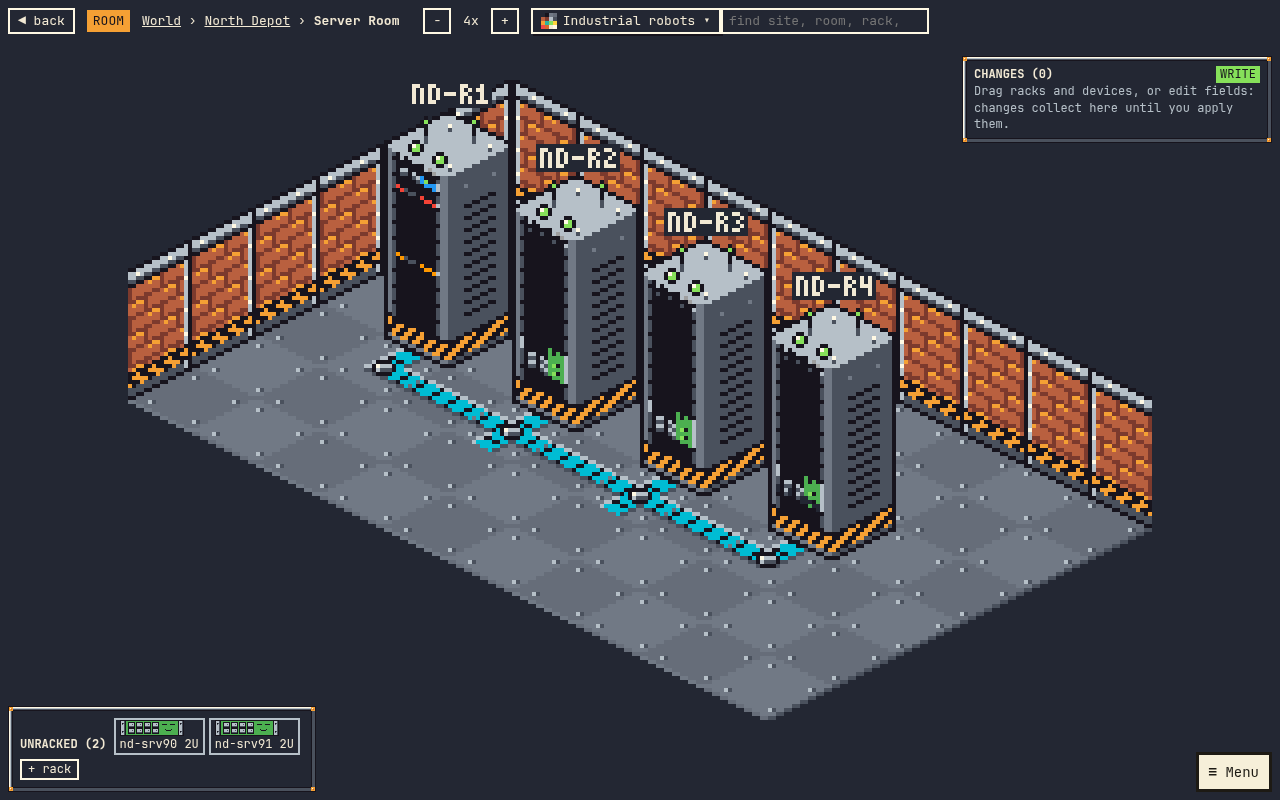
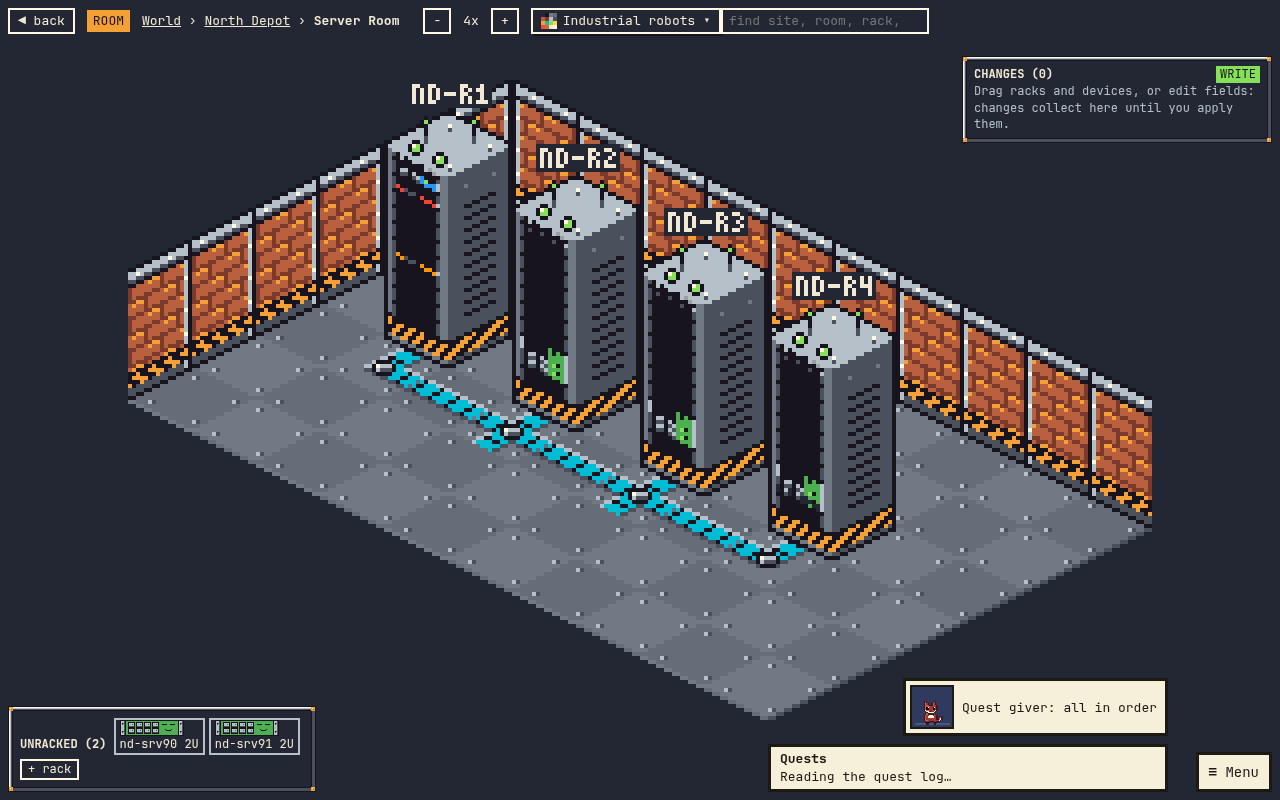
Quests: a fresh read on request, undone fixes counted not reopened, live quest e2e with its own NetBox user, docs

Changed region(s): [[0.5938, 0.8438, 0.9375, 1.0]]

diff --git a/web/e2e-live/quests-live.spec.ts b/web/e2e-live/quests-live.spec.ts
@@ -3,16 +3,17 @@ import { boot, game, typed } from '../e2e/game-helpers';
 
 // A quest on the live stack, written for real: against a WRITER's own dev NetBox stack (fresh seed), with the proxy on
 // that stack's rw token and WRITE_ENABLED=1, vite in front of it (RACKWALKER_LIVE_URL), and NB_URL + NB_ADMIN_TOKEN
-// for the NetBox-side checks. The player (the admin user) asks North Depot's quest giver, answers what the far end of
-// nd-core1's management port is, previews the cable, applies it, and NetBox confirms: XP, the cable tracer, the
-// changelog naming the player. The cable is removed afterwards, so the stack is as seeded again.
+// for the NetBox-side checks and to make the player. The player is a NetBox user made for this run, who may add
+// cables and nothing else: they ask North Depot's quest giver, answer what the far end of nd-core1's management port
+// is, preview the cable, apply it, and NetBox confirms: XP, the cable tracer, the changelog naming the player. The
+// cable and the user are removed afterwards, so the stack is as seeded again and the test can run again.
 // Screenshots: docs/screenshots/quests/live-*.png and reward.png.
 const SHOTS = '../docs/screenshots/quests';
 const NB = process.env.NB_URL;
 const TOKEN = process.env.NB_ADMIN_TOKEN;
 
 async function nb<T>(path: string, init: RequestInit = {}): Promise<T> {
-  const r = await fetch(`${NB}${path}`, { ...init, headers: { Authorization: `Bearer ${TOKEN}`, Accept: 'application/json' } });
+  const r = await fetch(`${NB}${path}`, { ...init, headers: { Authorization: `Bearer ${TOKEN}`, Accept: 'application/json', 'Content-Type': 'application/json' } });
   expect(r.status < 300, `${path}: ${r.status}`).toBe(true);
   return (r.status === 204 ? null : await r.json()) as T;
 }
@@ -42,22 +43,36 @@ test('live: a quest line from the giver to a cable NetBox confirms, with XP, a t
   const core = (await nb<{ results: Port[] }>('/api/dcim/interfaces/?device=nd-core1&name=mgmt0')).results[0]!;
   expect(core.cable, 'fresh seed: nd-core1 mgmt0 has no cable (make netbox-reset)').toBeNull();
   let cableId: number | null = null;
+  // The player: a NetBox user of their own, whose only write permission is to add cables.
+  const name = `quest-walker-${Date.now() % 100000}`;
+  const user = await nb<{ id: number }>('/api/users/users/', { method: 'POST', body: JSON.stringify({ username: name, password: `Rw-${crypto.randomUUID()}`, is_active: true }) });
+  const perm = await nb<{ id: number }>('/api/users/permissions/', { method: 'POST', body: JSON.stringify({ name: `${name} cables`, enabled: true, users: [user.id], object_types: ['dcim.cable'], actions: ['add'] }) });
+  const made = await nb<{ key: string; token: string }>('/api/users/tokens/', { method: 'POST', body: JSON.stringify({ user: user.id, version: 2, write_enabled: false, description: 'quest e2e' }) });
+  const playerToken = made.token.startsWith('nbt_') ? made.token : `nbt_${made.key}.${made.token}`;
   try {
     await boot(page);
-    await page.fill('#signin-token', TOKEN!);
+    await page.fill('#signin-token', playerToken);
     await page.click('#signin-submit');
     await page.evaluate(() => window.__game!.ready);
     if ((await game(page)).dialogue) await page.keyboard.press('Escape');
-    await page.evaluate(() => ((window.__game!.shell.transitionMs = 0), window.__game!.shell.quests!.refresh()));
+    // NetBox read now (a run just before this one may have removed its cable in NetBox itself)
+    await page.evaluate(() => ((window.__game!.shell.transitionMs = 0), window.__game!.shell.quests!.refresh(true)));
     const before = await page.evaluate(() => window.__game!.shell.quests!.rewards());
     expect(await page.evaluate(() => window.__game!.shell.quests!.boards.netbox!.can_write)).toBe(true);
 
-    // The giver of North Depot: tap them, hear why it matters, start the line.
-    const at = await page.evaluate(() => {
+    // The giver of North Depot: stand beside them (wherever the last visit left the player), press the interact key,
+    // hear why it matters, start the line.
+    await page.evaluate(() => {
       const s = window.__game!.shell;
-      return s.overworld!.clientOf(s.map!.giverOf(1)!);
+      if (s.scene === 'iso') return s.leave();
     });
-    await page.mouse.click(at.x, at.y);
+    await expect.poll(async () => (await game(page)).scene).toBe('overworld');
+    await page.evaluate(() => {
+      const s = window.__game!.shell;
+      const g = s.map!.giverOf(1)!;
+      s.overworld!.place({ x: g.x - 1, y: g.y }, 'E');
+    });
+    await page.keyboard.press('KeyE');
     await expect.poll(async () => (await game(page)).dialogue?.script, { timeout: 30_000 }).toBe('quest-offer');
     await page.screenshot({ path: `${SHOTS}/live-giver.png` });
     await choose(page, "Let's find out");
@@ -85,7 +100,8 @@ test('live: a quest line from the giver to a cable NetBox confirms, with XP, a t
     expect(v).toMatchObject({ mode: 'real', verified: true, complete: true });
     expect(v.xp_awarded).toBeGreaterThan(0);
     await expect(page.locator('#quest-xp')).toHaveText(`+${v.xp_awarded} XP`);
-    if (!before!.tools.includes('cable_tracer')) await expect(page.locator('#quest-reward .tool')).toContainText('New tool: Cable tracer.');
+    expect(v.xp_awarded).toBe(120); // a connectivity line, confirmed whole, for the first time
+    await expect(page.locator('#quest-reward .tool')).toContainText('New tool: Cable tracer.');
     expect(await page.evaluate(() => window.__game!.shell.lastJingle)).toBe('confirm');
     await page.screenshot({ path: `${SHOTS}/reward.png` });
     await page.click('#quest-reward-ok');
@@ -99,7 +115,8 @@ test('live: a quest line from the giver to a cable NetBox confirms, with XP, a t
     expect([cable.type, cable.b_terminations[0]!.object.device.name, cable.b_terminations[0]!.object.name]).toEqual(['cat6', 'nd-acc-nd-r2', 'Gi1/0/7']);
     const me = await (await page.request.get('/api/game/session')).json();
     const log = await nb<{ results: { message: string }[] }>(`/api/core/object-changes/?changed_object_type=dcim.cable&changed_object_id=${cableId}`);
-    expect(log.results[0]!.message).toBe(`rackwalker (${me.player.username}): quest: The other end of nd-core1 mgmt0`);
+    expect(me.player.username).toBe(name);
+    expect(log.results[0]!.message).toBe(`rackwalker (${name}): quest: The other end of nd-core1 mgmt0`);
 
     // The log: one line confirmed by NetBox, the tool on show.
     await page.click('#quest-next');
@@ -110,6 +127,8 @@ test('live: a quest line from the giver to a cable NetBox confirms, with XP, a t
     // put the stack back as seeded
     const now = (await nb<{ results: Port[] }>('/api/dcim/interfaces/?device=nd-core1&name=mgmt0')).results[0]!;
     if (now.cable) await nb(`/api/dcim/cables/${now.cable.id}/`, { method: 'DELETE' });
+    await nb(`/api/users/permissions/${perm.id}/`, { method: 'DELETE' });
+    await nb(`/api/users/users/${user.id}/`, { method: 'DELETE' });
   }
   expect(cableId).not.toBeNull();
 });

diff --git a/web/src/game/quests.ts b/web/src/game/quests.ts
@@ -182,10 +182,13 @@ export class Quests {
     return (this.board(siteId)?.quests ?? []).filter((q) => q.site_id === siteId && q.status !== 'done' && q.status !== 'dismissed');
   }
 
-  /** Reads both logs again (the estate's and the practice island's). Failures are said, never swallowed. */
-  async refresh(): Promise<void> {
+  /**
+   * Reads both logs again (the estate's and the practice island's). `fresh` has the proxy read NetBox itself again
+   * (the log's "Read NetBox again": for something changed in NetBox within the last minute). Failures are said.
+   */
+  async refresh(fresh = false): Promise<void> {
     try {
-      const [netbox, practice] = await Promise.all([this.api.questBoard('netbox'), this.api.questBoard('practice')]);
+      const [netbox, practice] = await Promise.all([this.api.questBoard('netbox', null, fresh), this.api.questBoard('practice')]);
       this.boards.netbox = netbox;
       this.boards.practice = practice;
       this.lastError = null;
@@ -551,7 +554,7 @@ export class Quests {
       xp.id = 'quest-xp';
       xp.append(spriteCanvas('icon_xp', 3), `+${v.xp_awarded} XP`);
       box.append(xp);
-    } else if (!real) box.append(el('p', 'Practice pays no XP; the real thing does, once NetBox confirms it.', 'hint'));
+    }
     for (const t of v.unlocked) {
       const row = el('p');
       row.className = 'tool';
@@ -681,7 +684,7 @@ export class Quests {
     }
     p.append(st);
     const foot = el('div', undefined, 'row');
-    foot.append(btn('◀ Close', 'quest-log-close', close), btn('Read NetBox again', 'quest-log-refresh', () => void this.refresh().then(() => this.openLog(siteId))));
+    foot.append(btn('◀ Close', 'quest-log-close', close), btn('Read NetBox again', 'quest-log-refresh', () => void this.refresh(true)));
     if (this.boards.practice?.quests.some((q) => q.status === 'done') || (this.boards.practice?.rewards.practised ?? 0) > 0)
       foot.append(btn('Start the practice island afresh', 'quest-practice-reset', () => void this.api.practiceReset().then(() => this.refresh()).then(() => this.openLog(siteId))));
     p.append(foot);

diff --git a/web/src/game/api.ts b/web/src/game/api.ts
@@ -15,7 +15,7 @@ export interface GameApi {
   settings(s: GameSettings): Promise<GameSettings>;
   flags(patch: FlagsPatch['flags']): Promise<Flags>;
   /** Quests (contract 2.3.0): the log for a site or the whole estate, on the player's NetBox or the practice island. */
-  questBoard(scope: QuestScope, siteId?: number | null): Promise<QuestBoard>;
+  questBoard(scope: QuestScope, siteId?: number | null, fresh?: boolean): Promise<QuestBoard>;
   questAnswer(a: QuestAnswer): Promise<Quest>;
   questPreview(scope: QuestScope, questId: string): Promise<ChangeResult>;
   questApply(scope: QuestScope, questId: string): Promise<QuestVerdict>;
@@ -81,8 +81,8 @@ export class HttpGameApi implements GameApi {
   flags(patch: FlagsPatch['flags']): Promise<Flags> {
     return this.call('PATCH', '/api/game/flags', { flags: patch } satisfies FlagsPatch);
   }
-  questBoard(scope: QuestScope, siteId: number | null = null): Promise<QuestBoard> {
-    return this.call('GET', `/api/game/quests?scope=${scope}${siteId ? `&site_id=${siteId}` : ''}`);
+  questBoard(scope: QuestScope, siteId: number | null = null, fresh = false): Promise<QuestBoard> {
+    return this.call('GET', `/api/game/quests?scope=${scope}${siteId ? `&site_id=${siteId}` : ''}${fresh ? '&fresh=true' : ''}`);
   }
   questAnswer(a: QuestAnswer): Promise<Quest> {
     return this.call('POST', '/api/game/quests/answer', a);

diff --git a/web/e2e-live/live.spec.ts b/web/e2e-live/live.spec.ts
@@ -49,7 +49,7 @@ test('live proxy: world shows 3 sites; double-click into a site, a room, a rack,
   for (const p of ['/api/scene/world', '/api/scene/site/1', '/api/scene/rack/1', '/api/device/2']) expect(paths).toContain(p);
   // 'cache' is the proxy's own cache of NetBox reads (another spec in the same run may have warmed it); never 'fixture'
   for (const a of api)
-    expect(a, `${a.path} answered by the proxy from NetBox`).toMatchObject({ status: 200, source: expect.stringMatching(/^(netbox|cache)$/), version: '4.7.4', contract: '2.2.0' });
+    expect(a, `${a.path} answered by the proxy from NetBox`).toMatchObject({ status: 200, source: expect.stringMatching(/^(netbox|cache)$/), version: '4.7.4', contract: '2.3.0' });
   expect(fixtureLoads).toEqual([]);
   console.log(JSON.stringify(api));
 });

diff --git a/proxy/rackwalker_proxy/questroutes.py b/proxy/rackwalker_proxy/questroutes.py
@@ -162,8 +162,9 @@ def install(app: FastAPI, *, client: NetBox | None, fixtures_dir: Path | None, w
             open_lines = [line for line in ls if line["site_id"] == sid and rows.get(line["id"], {}).get("status") not in ("done", "dismissed")]
             waiting = [line for line in open_lines if rows.get(line["id"], {}).get("status") in ("parked", "practised")]
             fresh = [line for line in open_lines if line not in waiting]
-            if not open_lines:
-                # nothing open here: one spot check, never invented work
+            comp = a.completeness(sid, dismissed)
+            if not open_lines and comp["open"] == 0:
+                # nothing open here and nothing missing: one spot check, never invented work
                 n_done = sum(1 for qid, r in rows.items() if r["site_id"] == sid and qid.startswith("q:spot_check:") and r["status"] == "done")
                 spot = quests.spot_check(e, sid, n_done)
                 parked_spot = spot is not None and rows.get(spot["id"], {}).get("status") == "parked"
@@ -182,7 +183,6 @@ def install(app: FastAPI, *, client: NetBox | None, fixtures_dir: Path | None, w
                     out_quests.append(quest_body(scope, line, row, state, status))
             if fresh and fresh[0] in ls and (best is None or ls.index(fresh[0]) < best[0]):
                 best = (ls.index(fresh[0]), fresh[0]["id"])
-            comp = a.completeness(sid, dismissed)
             sites_out.append({"site_id": sid, "name": e.sites[sid]["name"], "completeness": comp, "open_quests": real_open,
                               "boss_ready": comp["total"] > 0 and comp["open"] == 0, "boss_acknowledged": sid in acks,
                               "giver": {"name": GIVER_NAMES[sid % len(GIVER_NAMES)]}})
@@ -202,10 +202,16 @@ def install(app: FastAPI, *, client: NetBox | None, fixtures_dir: Path | None, w
             line = {**snap, "finding": {**snap["finding"], "data": {}}}
             out_quests.append(quest_body(scope, line, r, None, r["status"], lapsed=r["quest_id"] in lapsed_ids))
         here = [q for q in out_quests if q["status"] not in ("done", "dismissed") and q["kind"] != "spot_check"]
-        all_ok = not here and queued == 0
+        in_view = [s for s in sites_out if site_id in (None, s["site_id"])]
+        undone = sum(1 for qid in lapsed_ids if site_id in (None, rows[qid]["site_id"]))
+        all_ok = not here and queued == 0 and all(s["completeness"]["open"] == 0 for s in in_view)
         where = e.sites[site_id]["name"] if site_id in e.sites else ("the practice island" if scope == "practice" else "your estate")
         if all_ok:
             message = f"All in order at {where}: nothing the game can see is missing. Well kept."
+        elif not here and queued == 0:
+            # nothing left to ask, yet not complete: something done before is no longer in NetBox. Said, not reopened.
+            message = (f"Nothing new to ask at {where}. {undone} thing{'s' if undone != 1 else ''} you recorded before "
+                       f"{'are' if undone != 1 else 'is'} no longer in NetBox; nothing is reopened.")
         else:
             n = len(here) + queued
             message = f"{n} thing{'s' if n != 1 else ''} to find out at {where}; the most useful one comes first."
@@ -259,9 +265,10 @@ def install(app: FastAPI, *, client: NetBox | None, fixtures_dir: Path | None, w
 
     @app.get("/api/game/quests")
     async def get_board(request: Request, scope: Annotated[str, Query(pattern="^(netbox|practice)$")] = "netbox",
-                        site_id: Annotated[int | None, Query(ge=1)] = None):
+                        site_id: Annotated[int | None, Query(ge=1)] = None, fresh: bool = False):
         uid = await run_in_threadpool(require, request, False)
-        return _no_store(await board_for(uid, scope, site_id))
+        # fresh=true reads NetBox now instead of using the kept estate (the log's "Read NetBox again")
+        return _no_store(await board_for(uid, scope, site_id, fresh))
 
     @app.post("/api/game/quests/answer")
     async def answer(request: Request, body: Json):
@@ -407,7 +414,7 @@ def install(app: FastAPI, *, client: NetBox | None, fixtures_dir: Path | None, w
                 result["applied"] = True
                 await run_in_threadpool(lambda: store().set_practice_ops(uid, store().practice_ops(uid) + proposal["ops"]))
             s = await run_in_threadpool(settle, uid, scope, line, row, after if ok else e, False)
-            msg = ("Practice complete: the island now shows it. On your own NetBox this would earn XP once NetBox confirms it."
+            msg = ("The island now shows it. On your own NetBox this would earn XP, once NetBox confirms it."
                    if s["complete"] else "The island took that change." if ok else "That change does not fit the island; look at the preview.")
             return _no_store(await run_in_threadpool(verdict, uid, scope, line, s, "practice", ok and s["complete"], msg, result, None, after if ok else e))
         blocked = (await write_note(scope, uid))[1]
@@ -444,7 +451,7 @@ def install(app: FastAPI, *, client: NetBox | None, fixtures_dir: Path | None, w
         if not res.applied:
             msg = "NetBox did not take that change; look at the preview for the reason."
         elif s["complete"]:
-            msg = f"NetBox confirms it. {line['outcome']}"
+            msg = "NetBox confirms it."
         elif s["newly"]:
             msg = f"NetBox confirms {len(s['newly'])} of {len(s['saved']['checks'])}; the rest of this line stays open."
         else:
@@ -469,7 +476,7 @@ def install(app: FastAPI, *, client: NetBox | None, fixtures_dir: Path | None, w
             snap = row["snapshot"]
             line = {**snap, "finding": {**snap["finding"], "data": {}}, "site_id": row["site_id"]}
         s = await run_in_threadpool(settle, uid, "netbox", line, row, after, True)
-        msg = (f"NetBox confirms it. {line['outcome']}" if s["complete"] else
+        msg = ("NetBox confirms it." if s["complete"] else
                f"NetBox confirms {len(s['newly'])} more; the rest stays open." if s["newly"] else "NetBox does not show it yet.")
         return _no_store(await run_in_threadpool(verdict, uid, "netbox", line, s, "real", bool(s["newly"]) or s["complete"], msg, None, None, after))
 

diff --git a/proxy/tests/test_estate_read.py b/proxy/tests/test_estate_read.py
@@ -159,3 +159,58 @@ def test_health_says_whether_the_proxy_can_check_permissions(tmp_path):
             cl.get("/api/health")
             assert len([c for c in fake.calls if c[1] == "users/users"]) == 1    # asked once, then remembered for a minute
     assert CSRF_HEADER
+
+
+def test_the_quest_log_can_ask_for_a_fresh_read_of_netbox(live_like, monkeypatch):
+    cl, fake, app = live_like
+    # a signed-in player (the fake NetBox vouches for any token as user 9)
+    real = fake.__call__
+
+    def with_user(req: httpx.Request) -> httpx.Response:
+        if req.url.path == "/api/authentication-check/":
+            return httpx.Response(200, json={"id": 9, "username": "walker", "first_name": "", "last_name": ""})
+        if req.url.path == "/api/users/users/9/":
+            return httpx.Response(200, json={"id": 9, "username": "walker", "is_active": True, "groups": []})
+        return real(req)
+    monkeypatch.setattr(FakeNetBox, "__call__", lambda self, req: with_user(req))
+    r = cl.post("/api/game/session", json={"token": "nbt_synthetic.not-a-secret-0123456789"}, headers={CSRF_HEADER: "sign-in"})
+    assert r.status_code == 200, r.text
+    b = cl.get("/api/game/quests").json()
+    schema_validator("QuestBoard").validate(b)
+    assert [q["kind"] for q in b["quests"]] == ["device_unconnected"] and b["can_write"] is False
+    reads = len(fake.lists("dcim/devices"))
+    cl.get("/api/game/quests")
+    assert len(fake.lists("dcim/devices")) == reads            # kept
+    cl.get("/api/game/quests", params={"fresh": "true"})
+    assert len(fake.lists("dcim/devices")) == reads + 1        # read again on request
+
+
+def test_a_fix_that_was_later_undone_in_netbox_reopens_nothing_and_is_counted(live_like, monkeypatch):
+    cl, fake, app = live_like
+    real = fake.__call__
+
+    def with_user(req: httpx.Request) -> httpx.Response:
+        if req.url.path == "/api/authentication-check/":
+            return httpx.Response(200, json={"id": 9, "username": "walker", "first_name": "", "last_name": ""})
+        if req.url.path == "/api/users/users/9/":
+            return httpx.Response(200, json={"id": 9, "username": "walker", "is_active": True, "groups": []})
+        return real(req)
+    monkeypatch.setattr(FakeNetBox, "__call__", lambda self, req: with_user(req))
+    assert cl.post("/api/game/session", json={"token": "nbt_synthetic.not-a-secret-0123456789"}, headers={CSRF_HEADER: "sign-in"}).status_code == 200
+    offered = cl.get("/api/game/quests").json()["quests"][0]
+    assert (offered["id"], offered["status"]) == ("q:device_unconnected:device:3", "offered")
+    # the player completed this line once (NetBox confirmed it then, and paid); since then the cable was removed in NetBox
+    st = app.state.game_store()
+    st.put_quest(9, "netbox", {"quest_id": offered["id"], "site_id": 1, "status": "done", "answers": {}, "checks": ["device_unconnected:device:3"],
+                               "verified": ["device_unconnected:device:3"],
+                               "snapshot": {k: offered[k] for k in ("id", "kind", "rank", "site_id", "title", "purpose", "outcome", "xp", "minutes", "finding")}})
+    st.add_reward(9, offered["id"], "xp", 120, "device_unconnected:1")
+    b = cl.get("/api/game/quests").json()
+    schema_validator("QuestBoard").validate(b)
+    line = next(q for q in b["quests"] if q["id"] == offered["id"])
+    # nothing is reopened and nothing is taken away; the log says so, and the site's completeness tells the truth
+    assert (line["status"], line["lapsed"], line["step"]) == ("done", True, None)
+    assert not [q for q in b["quests"] if q["status"] == "offered"] and not b["all_in_order"]
+    assert b["message"] == "Nothing new to ask at your estate. 1 thing you recorded before is no longer in NetBox; nothing is reopened."
+    assert b["rewards"]["xp"] == 120 and b["rewards"]["lapsed"] == 1 and b["rewards"]["completed"] == 1
+    assert b["sites"][0]["completeness"]["open"] == 1 and not b["sites"][0]["boss_ready"]

diff --git a/docs/quests.md b/docs/quests.md
@@ -66,8 +66,11 @@ which quests are offered: **connectivity** (can it be reached, and how) before *
 | `rack_devices_unpositioned` | layout | devices are in a rack with no rack unit | nobody can be sent to the right unit | one form: the lowest unit of each device | each device's unit |
 | `room_layout` | layout | racks have no room, or no place on the floor plan (`iso_x`, `iso_y`) | someone new cannot find the rack | one form: the room, and the floor tile (or drag the rack in the room view) | each rack's room and floor position |
 
-A site with none of these gets a short, honest "All in order": the game does not invent work. A VLAN check
-(a prefix with no VLAN behind it) is not in this version.
+A site with none of these gets a short, honest "All in order": the game does not invent work. The only thing its
+quest giver then offers is a **spot check** of one device at a time ("is sw-quay-1 still in rack PI-Q1 U10, serial
+...?"). "Yes" closes it with nothing written and no XP; "no" is a field task: correct the record, then say it matches.
+
+Not in this version: a VLAN check (a prefix with no VLAN behind it), and console ports.
 
 ## Gaps: single empty fields
 
@@ -148,6 +151,9 @@ now trace Harbour Office to the carrier's hand-off".
 
 A line you had begun and then fixed in NetBox itself completes too: the quest log shows it as ready with nothing to
 write, and "Check NetBox" (`POST /api/game/quests/verify`) does the same read without a write.
+
+The game keeps its read of NetBox for a minute. "Read NetBox again" in the quest log reads it at once, for something
+you have just changed in NetBox itself.
 
 If something a quest fixed is later removed in NetBox, nothing is reopened and nothing is taken away. The quest log
 counts it ("since undone in NetBox"), and the site's completeness shows the truth.

diff --git a/contracts/api.md b/contracts/api.md
@@ -183,7 +183,8 @@ Ids above 9,000,000 belong to the practice island, which is not in NetBox: both 
   field, id `<object type>:<object id>:<field>`, ordered by rank, object type, object id, field; `limit` 1 to 500
   (default 100). `unlisted` counts expected-cable gaps beyond the per-site cap of 50. `completeness` is checks passed
   out of checks made at the site.
-* **`GET /api/game/quests?scope=netbox|practice&site_id=`**: the quest log. Without `site_id`, the lines open at
+* **`GET /api/game/quests?scope=netbox|practice&site_id=&fresh=`**: the quest log (`fresh=true` reads NetBox now, for a
+  change made in NetBox itself within the last minute). Without `site_id`, the lines open at
   every site. At most three fresh lines are listed per site (the most valuable first: connectivity, identity,
   layout), parked and practised lines beside them, the rest counted in `queued`; then the last finished lines.
   `next_quest_id` is the most valuable fresh line of the scope. `can_write` is false, with `write_blocked` saying why,
